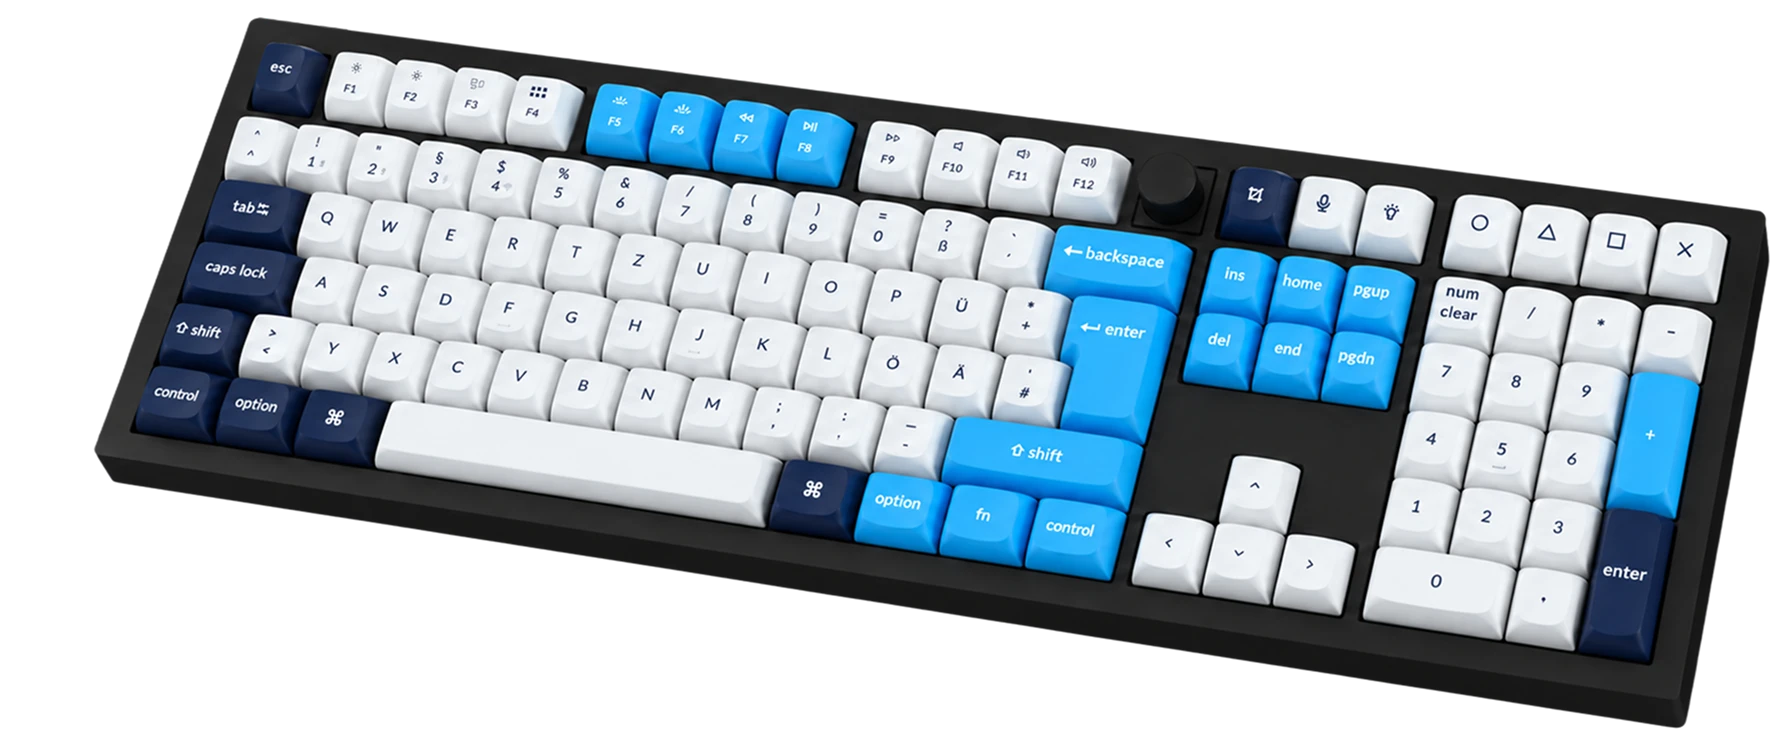
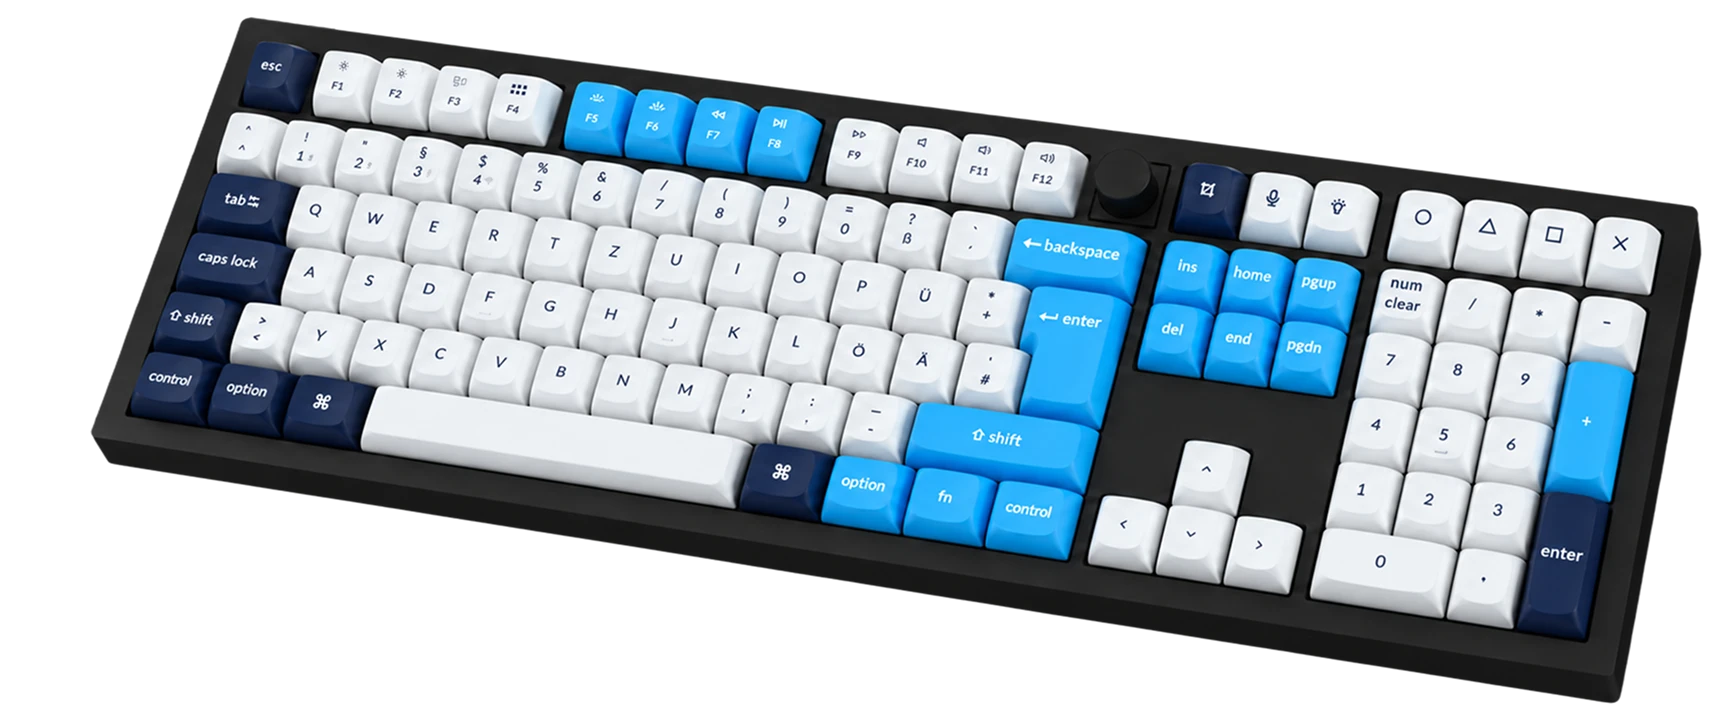
Neue Exporte fuer alle Farbvarianten
Tastaturen, Swooshes und Swoosh-Spitzen neu exportiert; Swooshes und Sunset-Tastatur als WebP. Alle Varianten haben jetzt dasselbe Format, daher eine gemeinsame Positionierung ohne Sonderregeln.

diff --git a/js/main.js b/js/main.js
@@ -13,21 +13,21 @@ const asset = (file) => new URL(`../assets/images/${file}`, import.meta.url).hre
 // Bilder je Farbe. Fehlt eine Farbe (z. B. Violet), bleibt die Standardvariante.
 const VARIANTS = {
   sunset: {
-    keyboard: [asset("keyboard.png"), 1752, 897],
-    swoosh: [asset("swoosh.svg"), 729, 375],
+    keyboard: [asset("keyboard.webp"), 1719, 709],
+    swoosh: [asset("swoosh.webp"), 1745, 899],
     tip: asset("swoosh-tip.svg"),
     alt: "Keychron Q6 Max in Schwarz mit roten, weißen und orangen Keycaps, schräg von oben",
   },
   "ice-blue": {
-    keyboard: [asset("keyboard-blue.webp"), 1787, 735],
-    swoosh: [asset("swoosh-blue.png"), 729, 376],
-    tip: asset("swoosh-tip-blue.svg"),
+    keyboard: [asset("keyboard-blue.webp"), 1718, 710],
+    swoosh: [asset("swoosh-blue.webp"), 1745, 899],
+    tip: asset("swoosh-tip-blue.png"),
     alt: "Keychron Q6 Max in Schwarz mit weißen, hellblauen und dunkelblauen Keycaps, schräg von oben",
   },
   olive: {
-    keyboard: [asset("keyboard-olive.webp"), 1859, 772],
-    swoosh: [asset("swoosh-olive.png"), 793, 409],
-    tip: asset("swoosh-tip-olive.svg"),
+    keyboard: [asset("keyboard-olive.webp"), 1693, 703],
+    swoosh: [asset("swoosh-olive.webp"), 1745, 899],
+    tip: asset("swoosh-tip-olive.png"),
     alt: "Keychron Q6 Max in Schwarz mit weißen und olivgrünen Keycaps, schräg von oben",
   },
 };
@@ -43,8 +43,6 @@ function showVariant(color) {
   const stage = $(".stage");
   const keyboard = $(".stage__keyboard", stage);
 
-  // Positionierung je Variante steuert das CSS über data-variant
-  stage.dataset.variant = VARIANTS[color] ? color : "sunset";
   setImage(keyboard, variant.keyboard);
   setImage($(".stage__swoosh", stage), variant.swoosh);
   $(".stage__swoosh-tip", stage).src = variant.tip;

diff --git a/index.html b/index.html
@@ -55,15 +55,15 @@
 
         <!-- ---------- Bühne: Produktbild ---------- -->
         <div class="product__media">
-          <div class="stage" data-variant="sunset">
+          <div class="stage">
             <span class="stage__glow" aria-hidden="true"></span>
 
-            <img class="stage__swoosh" src="assets/images/swoosh.svg" alt=""
-                 width="729" height="375">
+            <img class="stage__swoosh" src="assets/images/swoosh.webp" alt=""
+                 width="1745" height="899">
 
-            <img class="stage__keyboard" src="assets/images/keyboard.png"
+            <img class="stage__keyboard" src="assets/images/keyboard.webp"
                  alt="Keychron Q6 Max in Schwarz mit roten, weißen und orangen Keycaps, schräg von oben"
-                 width="1752" height="897" fetchpriority="high">
+                 width="1719" height="709" fetchpriority="high">
 
             <img class="stage__swoosh-tip" src="assets/images/swoosh-tip.svg" alt=""
                  width="123" height="38">

diff --git a/css/style.css b/css/style.css
@@ -162,32 +162,17 @@ a:hover {
   top: 41.36%;
   width: 89.85%;
   height: auto;
-  scale: 1 -1;
 }
 
-/* Das PNG hat oben/unten transparenten Rand – der Figma-Crop schneidet nur
-   dort, daher wird das Bild vollständig gerendert. */
+/* Die Renders haben keinen transparenten Rand – vertikal so gesetzt, dass
+   die Tastatur dort sitzt, wo sie im Figma-Crop liegt. */
 .stage__keyboard {
   position: absolute;
   left: 1.97%;
-  top: 21.19%;
+  top: 26.5%;
   width: 86.93%;
   height: auto;
   rotate: 3.12deg;
-}
-
-/* Farbvarianten (Bildtausch in js/main.js) */
-
-/* Die PNG-Swooshes sind bereits gespiegelt exportiert */
-.stage:not([data-variant="sunset"]) .stage__swoosh {
-  scale: none;
-}
-
-/* Die Varianten-Renders haben keinen transparenten Rand – vertikal auf die
-   Mitte der Standard-Tastatur ausgerichtet */
-.stage[data-variant="ice-blue"] .stage__keyboard,
-.stage[data-variant="olive"] .stage__keyboard {
-  top: 26.5%;
 }
 
 /* Spitze des Swoosh, die vor der Tastatur liegt */
